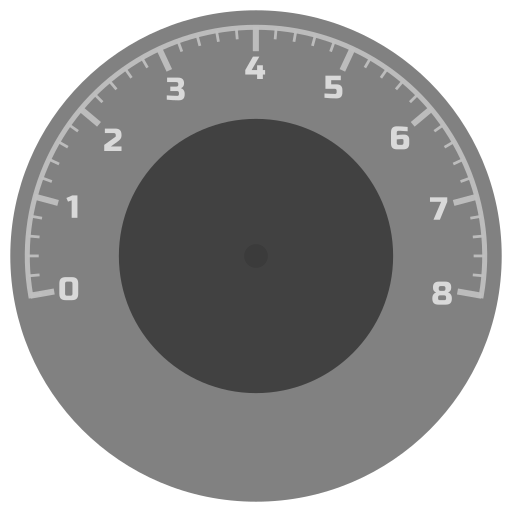
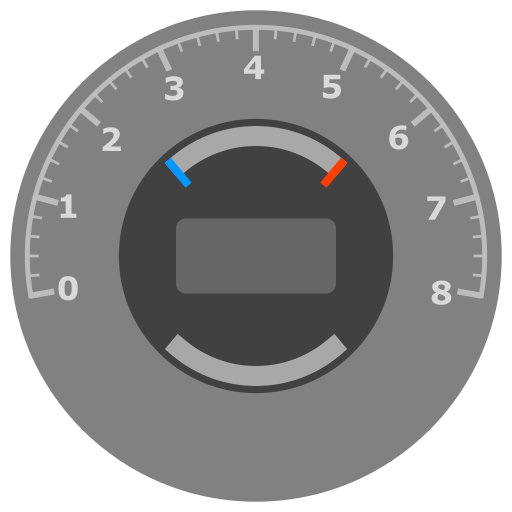
Coolant gauge added

diff --git a/Assets/Scripts/HUD_Vehicle.cs b/Assets/Scripts/HUD_Vehicle.cs
@@ -17,6 +17,12 @@ public class HUD_Vehicle : MonoBehaviour
     [SerializeField] float rpmsmooth;
     [SerializeField] Engine engine;
 
+    [Header ("Engine Parameters")]
+    [SerializeField] float coolant;
+    [SerializeField] float coolantSweepAngle;
+    [SerializeField] RectTransform coolantNeedle;
+    [SerializeField] float fuel;
+
 
     void Awake()
     {
@@ -44,6 +50,7 @@ public class HUD_Vehicle : MonoBehaviour
             }
            
             rpmNeedle.localEulerAngles = new Vector3(0, 0, rpmsmooth * MaxAngle);
+            coolantNeedle.localEulerAngles=new Vector3(0, 0, coolant * coolantSweepAngle);
         }
                   
     }
